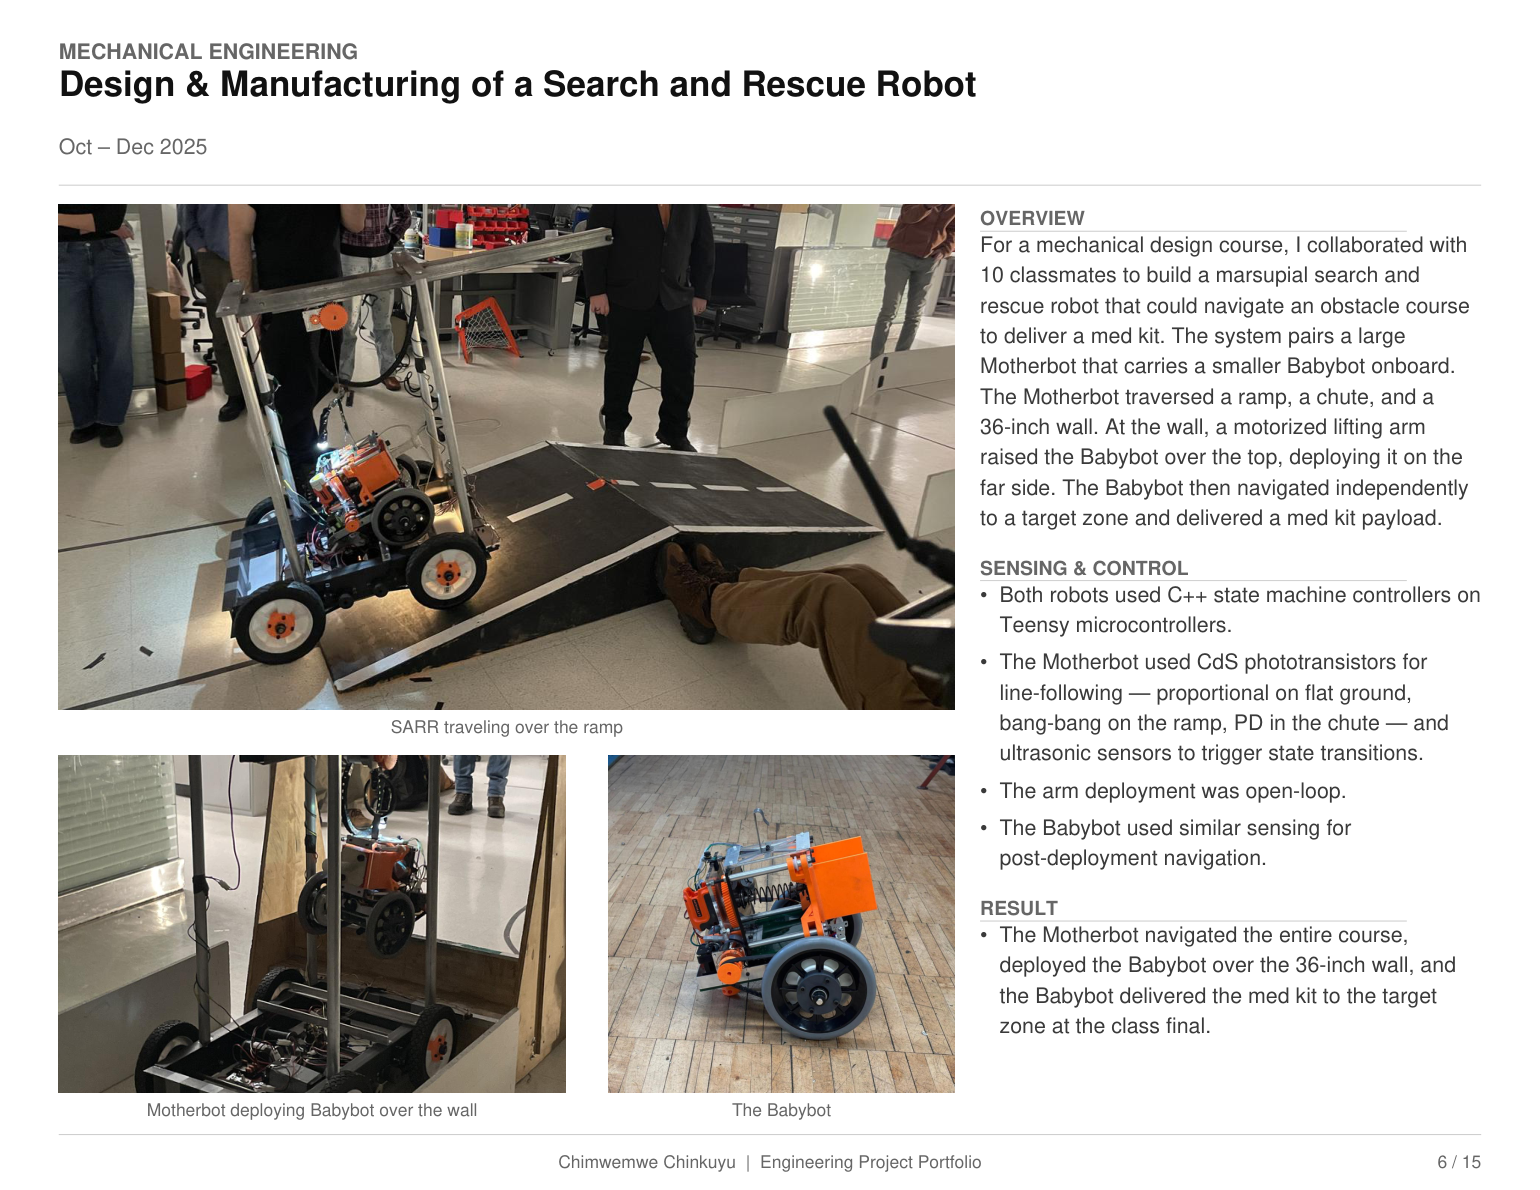
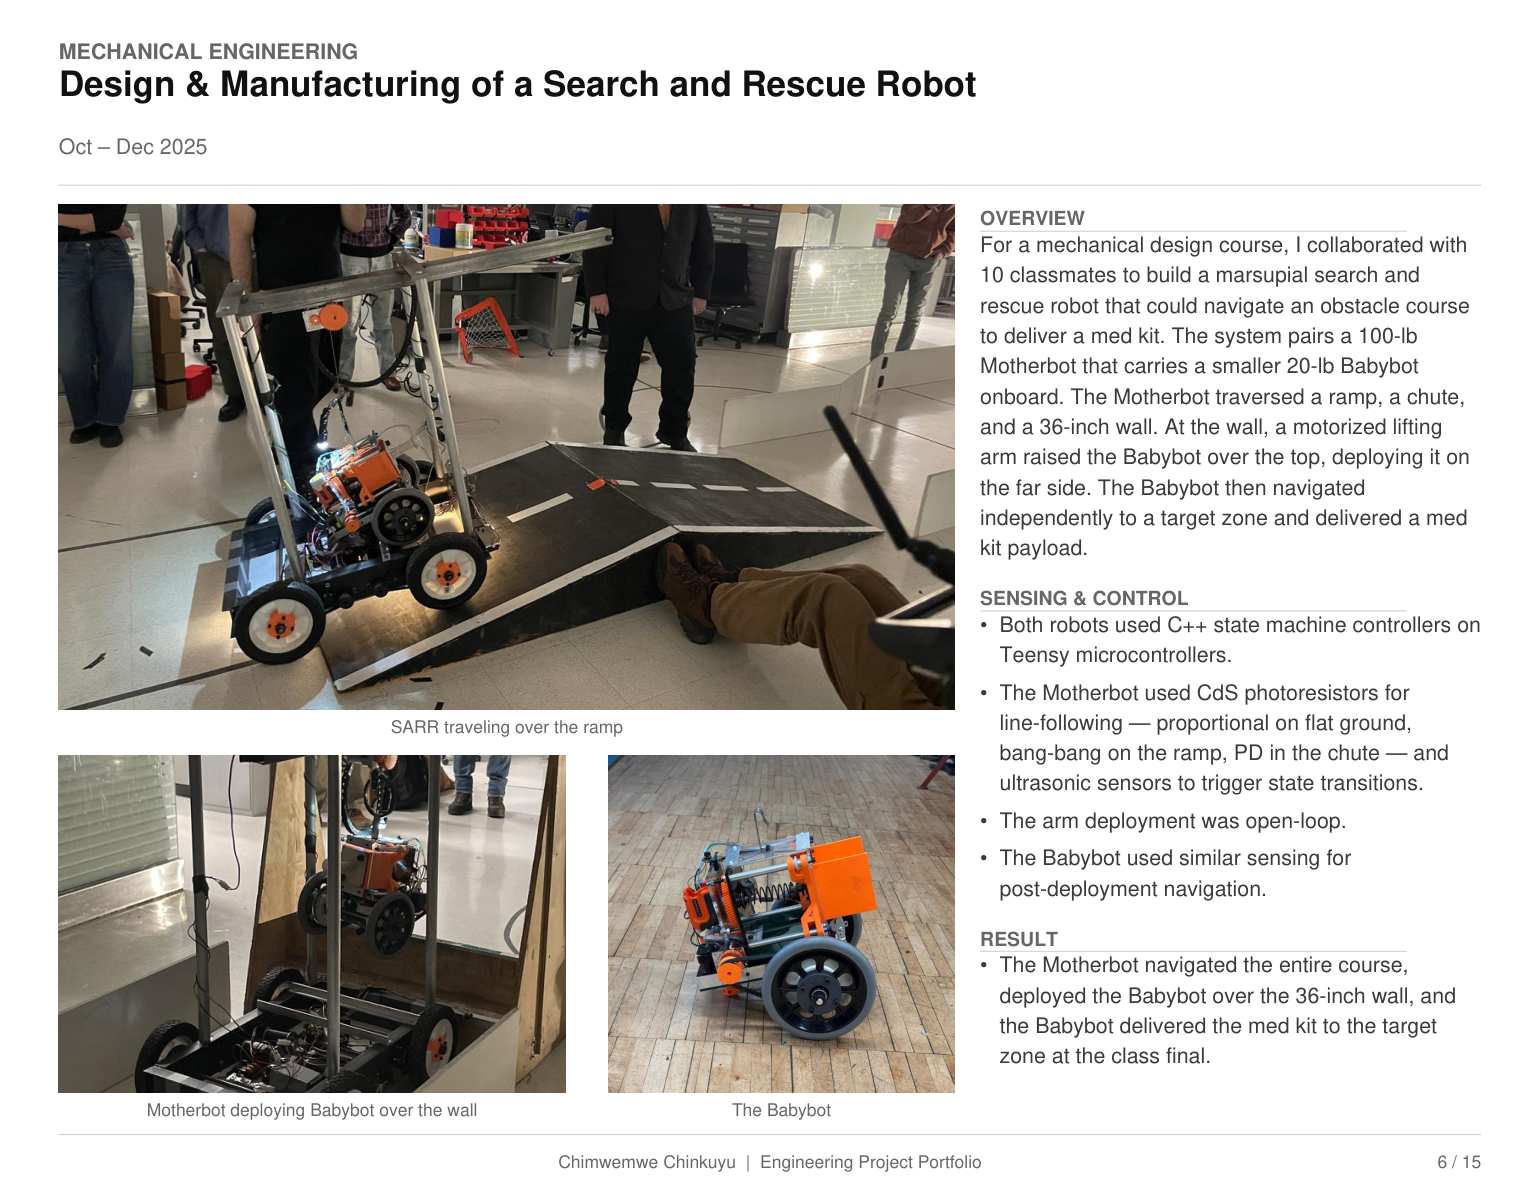
fixed additional errors in portfolio pdf

Changed region(s): [[0.6234, 0.2798, 0.9662, 0.9017]]

diff --git a/portfolio_preview.html b/portfolio_preview.html
@@ -26,25 +26,25 @@
 <body>
 <header>
   <h1>Portfolio PDF — Layout Preview</h1>
-  <span class="meta">15 pages · generated 2026-10-13 16:46:21</span>
+  <span class="meta">15 pages · generated 2026-10-13 17:29:05</span>
   <span class="hint">Re-run generate_portfolio.py, then refresh (Ctrl/Cmd + R)</span>
 </header>
 <main>
-<figure class="page"><img src="preview/page_01.png?v=1791924380" alt="Page 1" loading="lazy"><figcaption>Page 1 / 15</figcaption></figure>
-<figure class="page"><img src="preview/page_02.png?v=1791924380" alt="Page 2" loading="lazy"><figcaption>Page 2 / 15</figcaption></figure>
-<figure class="page"><img src="preview/page_03.png?v=1791924380" alt="Page 3" loading="lazy"><figcaption>Page 3 / 15</figcaption></figure>
-<figure class="page"><img src="preview/page_04.png?v=1791924380" alt="Page 4" loading="lazy"><figcaption>Page 4 / 15</figcaption></figure>
-<figure class="page"><img src="preview/page_05.png?v=1791924380" alt="Page 5" loading="lazy"><figcaption>Page 5 / 15</figcaption></figure>
-<figure class="page"><img src="preview/page_06.png?v=1791924380" alt="Page 6" loading="lazy"><figcaption>Page 6 / 15</figcaption></figure>
-<figure class="page"><img src="preview/page_07.png?v=1791924380" alt="Page 7" loading="lazy"><figcaption>Page 7 / 15</figcaption></figure>
-<figure class="page"><img src="preview/page_08.png?v=1791924380" alt="Page 8" loading="lazy"><figcaption>Page 8 / 15</figcaption></figure>
-<figure class="page"><img src="preview/page_09.png?v=1791924380" alt="Page 9" loading="lazy"><figcaption>Page 9 / 15</figcaption></figure>
-<figure class="page"><img src="preview/page_10.png?v=1791924380" alt="Page 10" loading="lazy"><figcaption>Page 10 / 15</figcaption></figure>
-<figure class="page"><img src="preview/page_11.png?v=1791924380" alt="Page 11" loading="lazy"><figcaption>Page 11 / 15</figcaption></figure>
-<figure class="page"><img src="preview/page_12.png?v=1791924380" alt="Page 12" loading="lazy"><figcaption>Page 12 / 15</figcaption></figure>
-<figure class="page"><img src="preview/page_13.png?v=1791924380" alt="Page 13" loading="lazy"><figcaption>Page 13 / 15</figcaption></figure>
-<figure class="page"><img src="preview/page_14.png?v=1791924380" alt="Page 14" loading="lazy"><figcaption>Page 14 / 15</figcaption></figure>
-<figure class="page"><img src="preview/page_15.png?v=1791924380" alt="Page 15" loading="lazy"><figcaption>Page 15 / 15</figcaption></figure>
+<figure class="page"><img src="preview/page_01.png?v=1791926944" alt="Page 1" loading="lazy"><figcaption>Page 1 / 15</figcaption></figure>
+<figure class="page"><img src="preview/page_02.png?v=1791926944" alt="Page 2" loading="lazy"><figcaption>Page 2 / 15</figcaption></figure>
+<figure class="page"><img src="preview/page_03.png?v=1791926944" alt="Page 3" loading="lazy"><figcaption>Page 3 / 15</figcaption></figure>
+<figure class="page"><img src="preview/page_04.png?v=1791926944" alt="Page 4" loading="lazy"><figcaption>Page 4 / 15</figcaption></figure>
+<figure class="page"><img src="preview/page_05.png?v=1791926944" alt="Page 5" loading="lazy"><figcaption>Page 5 / 15</figcaption></figure>
+<figure class="page"><img src="preview/page_06.png?v=1791926944" alt="Page 6" loading="lazy"><figcaption>Page 6 / 15</figcaption></figure>
+<figure class="page"><img src="preview/page_07.png?v=1791926944" alt="Page 7" loading="lazy"><figcaption>Page 7 / 15</figcaption></figure>
+<figure class="page"><img src="preview/page_08.png?v=1791926944" alt="Page 8" loading="lazy"><figcaption>Page 8 / 15</figcaption></figure>
+<figure class="page"><img src="preview/page_09.png?v=1791926944" alt="Page 9" loading="lazy"><figcaption>Page 9 / 15</figcaption></figure>
+<figure class="page"><img src="preview/page_10.png?v=1791926944" alt="Page 10" loading="lazy"><figcaption>Page 10 / 15</figcaption></figure>
+<figure class="page"><img src="preview/page_11.png?v=1791926944" alt="Page 11" loading="lazy"><figcaption>Page 11 / 15</figcaption></figure>
+<figure class="page"><img src="preview/page_12.png?v=1791926944" alt="Page 12" loading="lazy"><figcaption>Page 12 / 15</figcaption></figure>
+<figure class="page"><img src="preview/page_13.png?v=1791926944" alt="Page 13" loading="lazy"><figcaption>Page 13 / 15</figcaption></figure>
+<figure class="page"><img src="preview/page_14.png?v=1791926944" alt="Page 14" loading="lazy"><figcaption>Page 14 / 15</figcaption></figure>
+<figure class="page"><img src="preview/page_15.png?v=1791926944" alt="Page 15" loading="lazy"><figcaption>Page 15 / 15</figcaption></figure>
 </main>
 </body>
 </html>

diff --git a/sarr.html b/sarr.html
@@ -46,11 +46,11 @@
         <p>
           An eleven-member team designed and built a marsupial search-and-rescue robot over eight weeks
           as the culminating project for MAE 322: Mechanical Engineering Design. The system consists of
-          a large parent robot (the Motherbot) that autonomously navigates a multi-obstacle course
-          (including a ramp, a chute, and a 36-inch wall) while carrying a smaller sub-robot (the
+          a large 100-lb parent robot (the Motherbot) that autonomously navigates a multi-obstacle course
+          (including a ramp, a chute, and a 36-inch wall) while carrying a smaller 20-lb sub-robot (the
           Babybot). Upon reaching the wall, an onboard motorized lifting arm deploys the Babybot over
           the top; the Babybot then navigates independently to a target zone and delivers a medkit payload.
-          Both robots operate via closed-loop control using CdS phototransistor arrays for line-following
+          Both robots operate via closed-loop control using CdS photoresistor arrays for line-following
           and ultrasonic distance sensors for obstacle detection.
         </p>
         <p>
@@ -106,7 +106,7 @@
         <p>
           The Motherbot progresses through five sequential states. On the flat approach section
           it uses proportional control, computing a steering correction from the difference
-          between left and right CdS phototransistor readings. On the ramp it switches to
+          between left and right CdS photoresistor readings. On the ramp it switches to
           bang-bang control (full motor power) to climb without stalling. Through the chute
           it applies PD control to damp the oscillation that proportional-only control would
           introduce in the narrow channel. At the wall, an open-loop timed sequence stops the
@@ -118,7 +118,7 @@
           State transitions on both robots are driven by ultrasonic distance sensors. The
           Motherbot detects the ramp base, chute entry, and wall at defined approach distances
           and shifts its control mode accordingly; the Babybot uses ultrasonic range to detect
-          the wall on return. CdS phototransistors are wired as voltage dividers and mounted
+          the wall on return. CdS photoresistors are wired as voltage dividers and mounted
           low to the ground spanning the width of the course tape. The analog voltage difference
           between the left and right sensors is the error signal fed directly into the
           controller. The same CdS logic that steers both robots also triggers medkit delivery:
@@ -131,7 +131,7 @@
           Each robot carries an independent electrical system powered by onboard batteries. On the
           Motherbot, four CIM brushed DC motors are driven by L298N H-bridge motor driver modules,
           one per motor. A Teensy microcontroller receives sensor inputs and outputs PWM signals to
-          the motor drivers to execute the control law. The CdS phototransistors are wired as
+          the motor drivers to execute the control law. The CdS photoresistors are wired as
           voltage dividers, and the ultrasonic sensors communicate via standard trigger-echo GPIO
           pins. The Babybot uses the same sensor and microcontroller architecture scaled to its
           two-motor drivetrain and servo-actuated delivery mechanism.

diff --git a/generate_portfolio.py b/generate_portfolio.py
@@ -532,14 +532,14 @@ def draw_sarr(c, page_start, total_pages):
         ("Overview",
          "For a mechanical design course, I collaborated with 10 classmates to build a "
          "marsupial search and rescue robot that could navigate an obstacle course to "
-         "deliver a med kit. The system pairs a large Motherbot that carries a smaller "
-         "Babybot onboard. The Motherbot traversed a ramp, a chute, and a 36-inch wall. "
+         "deliver a med kit. The system pairs a 100-lb Motherbot that carries a smaller "
+         "20-lb Babybot onboard. The Motherbot traversed a ramp, a chute, and a 36-inch wall. "
          "At the wall, a motorized lifting arm raised the Babybot over the top, deploying "
          "it on the far side. The Babybot then navigated independently to a target zone "
          "and delivered a med kit payload."),
         ("Sensing & Control", [
          "Both robots used C++ state machine controllers on Teensy microcontrollers.",
-         "The Motherbot used CdS phototransistors for line-following — proportional "
+         "The Motherbot used CdS photoresistors for line-following — proportional "
          "on flat ground, bang-bang on the ramp, PD in the chute — and ultrasonic "
          "sensors to trigger state transitions.",
          "The arm deployment was open-loop.",
@@ -794,7 +794,7 @@ def draw_heat(c, page_start, total_pages):
          "finite-difference simulation from scratch in MATLAB to model 2D unsteady "
          "heat transfer over two geometries: a 400°C cylinder in 300°C flow "
          "(convective heat flux 7.6 kW/m²), and a NACA 2412 airfoil at 5° and 30° "
-         "angles of attack (heat flux 1,002.6 vs 1,133.6 W/m²)."),
+         "angles of attack (heat flux 1,133.6 vs 1,002.6 W/m²)."),
         ("Technical Approach", [
          "Three coupled PDEs solved at each time step:",
          "Streamfunction (Poisson) via Gauss-Seidel with over-relaxation",
@@ -826,8 +826,9 @@ def draw_heat(c, page_start, total_pages):
         "Separated Flow & Vortex Shedding",
         "Flow separates at the leading edge, producing large unsteady vortices shed "
         "periodically into the wake, with Strouhal number St = 0.62 — consistent with "
-        "separated-flow theory. Higher stagnation temperatures and increased heat flux "
-        "(13% above the 5° case) result from the thickened boundary layer.")
+        "separated-flow theory. The average heat flux is about 12% lower than the 5° "
+        "case (1,002.6 vs 1,133.6 W/m²), consistent with the separated region and "
+        "thickened boundary layers.")
 
 # ─────────────────────────────────────────────────────────────────────────────
 # PROJECT 5 — LOAD-BEARING AIRFOIL  (2 pages)
